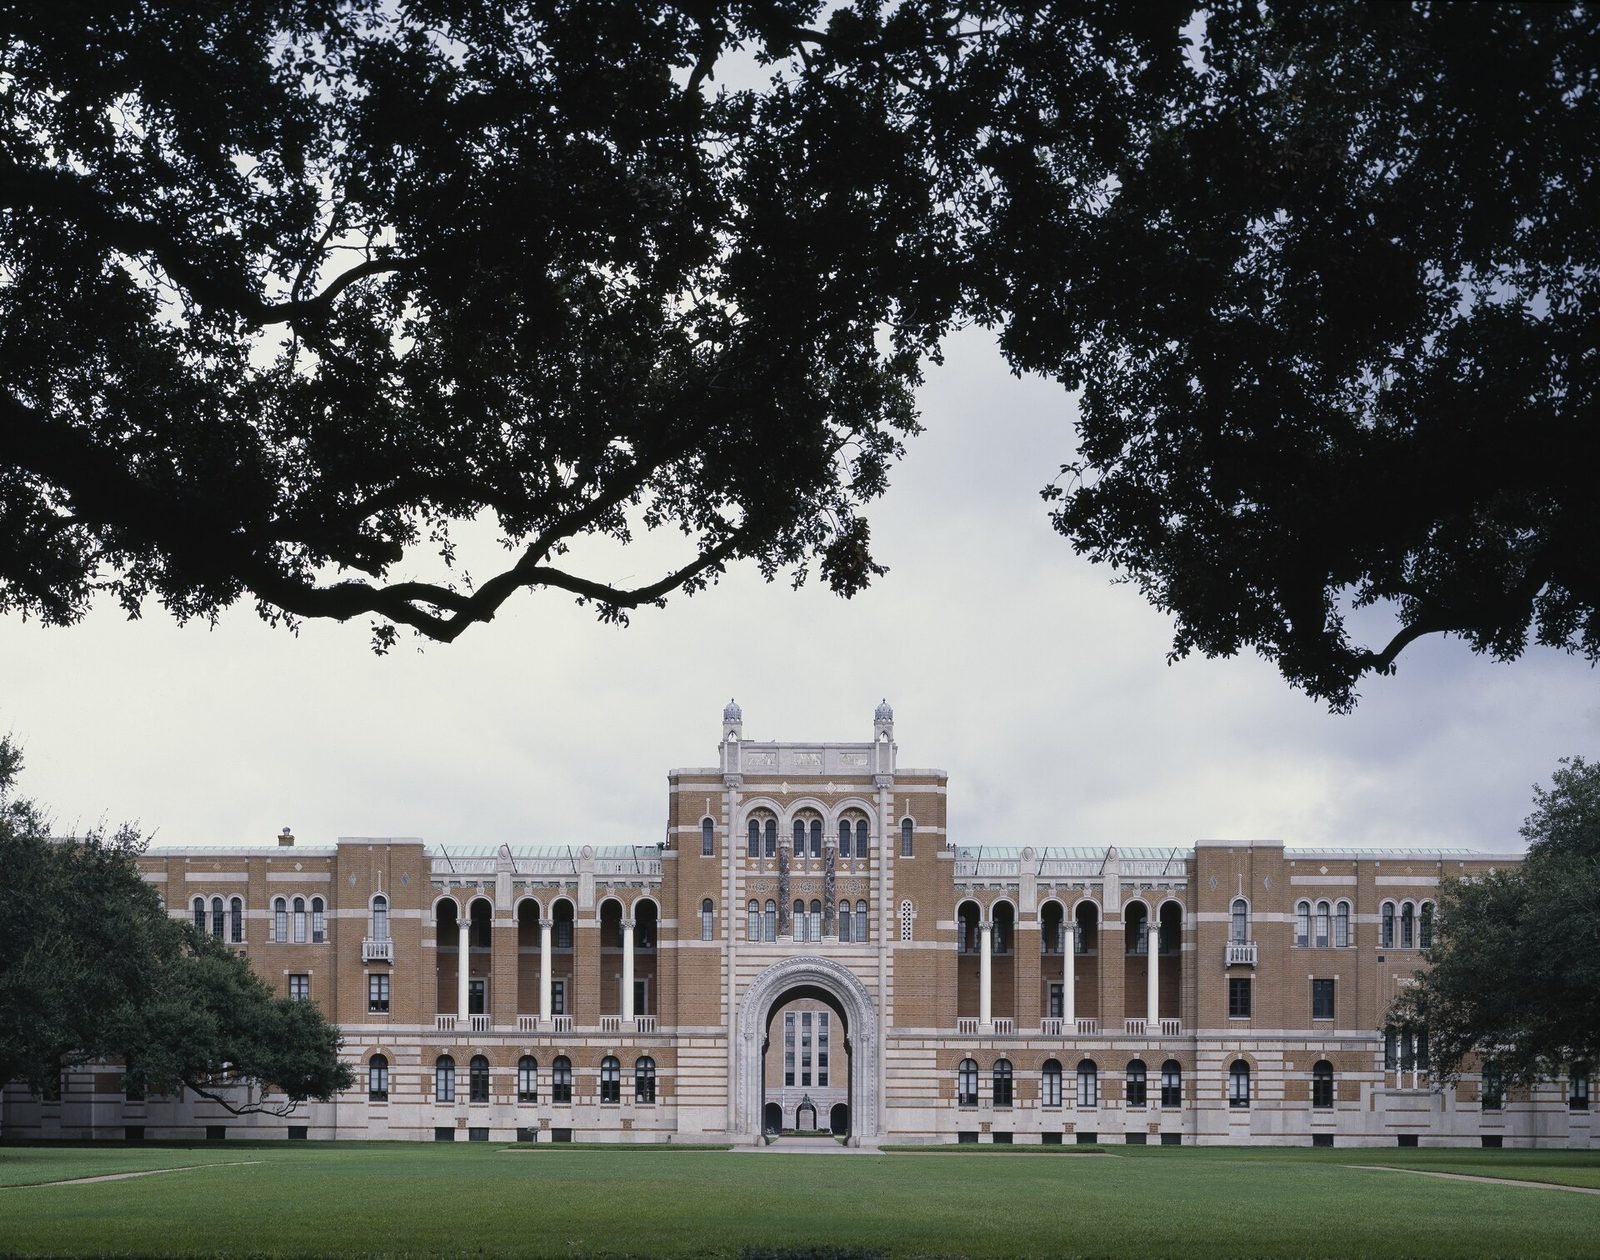
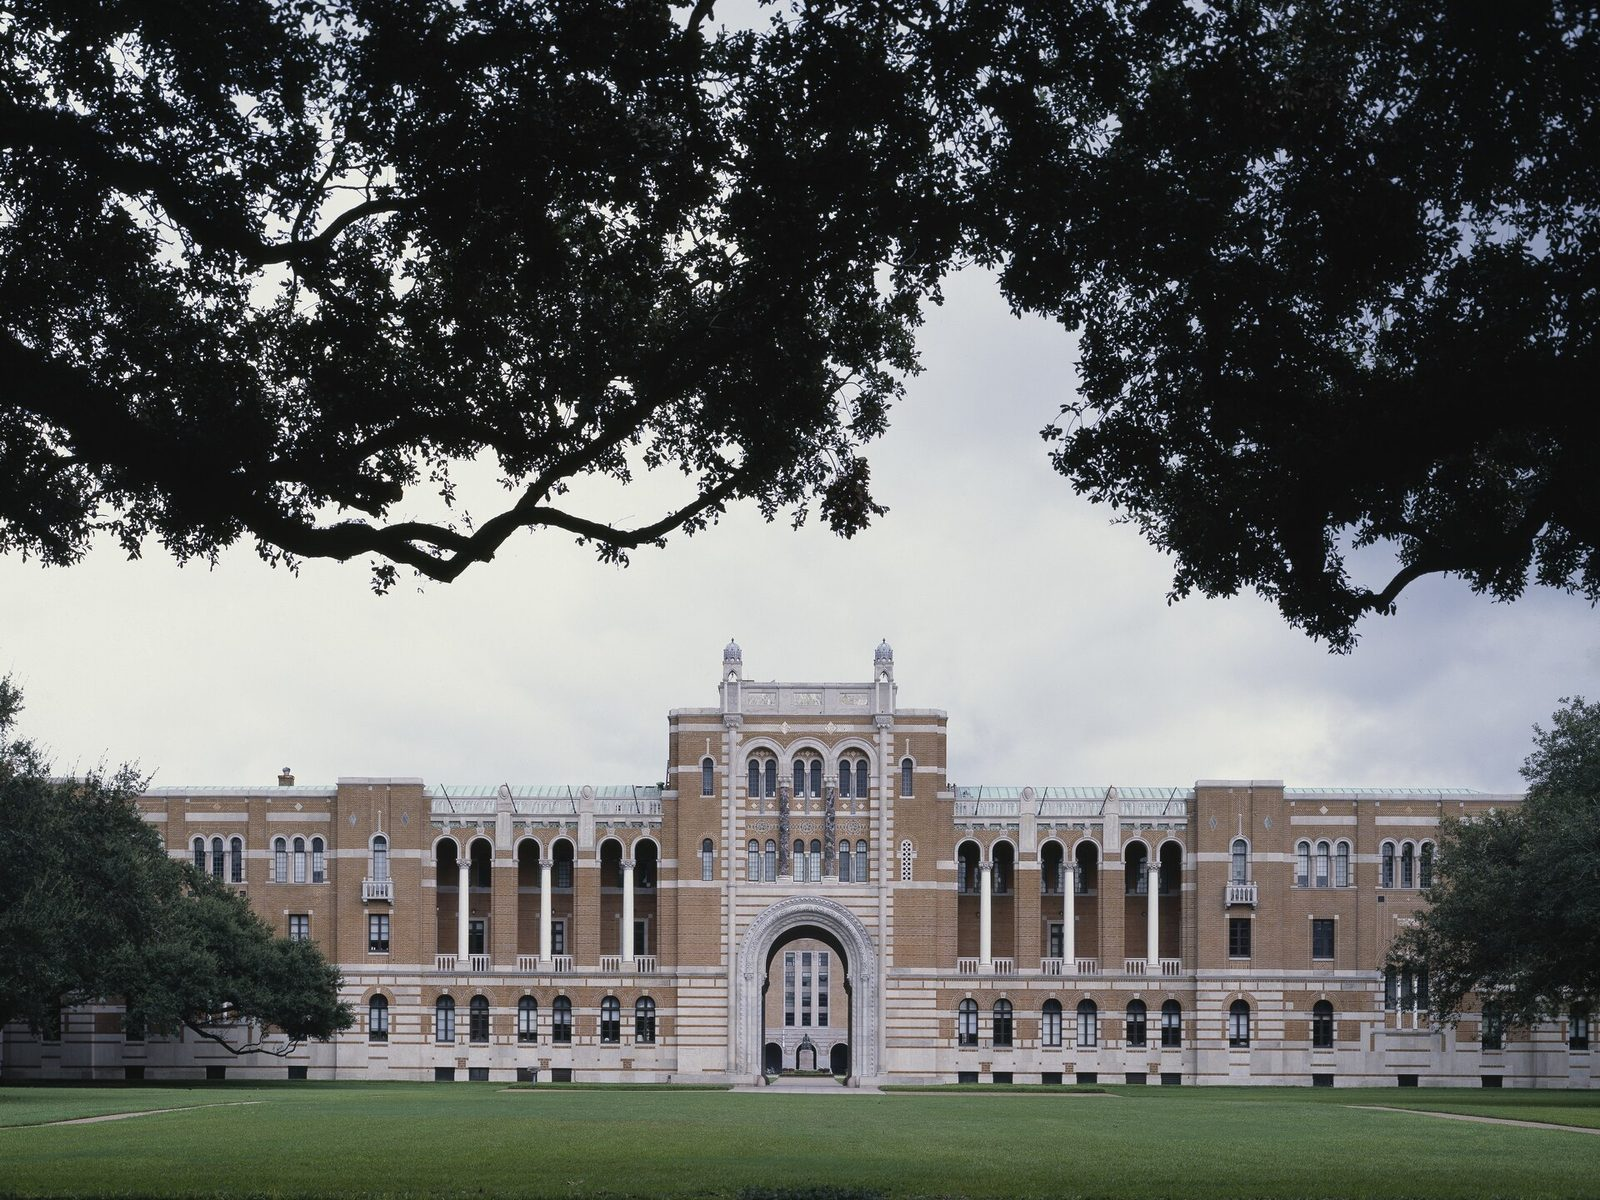
Hero photos cropped to 4:3 with ground lines aligned; wordmark stays on one line

diff --git a/2026_workshop/assets/css/style.css b/2026_workshop/assets/css/style.css
@@ -116,7 +116,7 @@ p, li, dd, figcaption, .lead { text-wrap: pretty; }
 /* photo hero: SKKU left, Rice right */
 .hero-photos { display: block; border-bottom: 0; background: #111; }
 .hero-photos::before { display: none; }
-.hero-photo { position: absolute; top: 0; bottom: 0; width: 50%; background-size: cover; background-position: center; }
+.hero-photo { position: absolute; top: 0; bottom: 0; width: 50%; background-size: cover; background-position: center 88%; }  /* both photos are 4:3 with the ground at 90 % of the height, so the ground lines meet */
 .hero-left { left: 0; }
 .hero-right { right: 0; }
 .hero-shade { position: absolute; inset: 0; background: linear-gradient(180deg, rgba(10, 10, 12, 0) 0%, rgba(10, 10, 12, 0) 38%, rgba(10, 10, 12, .35) 62%, rgba(10, 10, 12, .78) 100%); }
@@ -344,9 +344,10 @@ figcaption { color: var(--muted); font-size: .88rem; margin-top: 10px; }
 }
 
 /* |SKKU> (x) |Rice> wordmark: text on one baseline, drawn symbols aligned to the text */
-.wordmark { gap: .55em; flex-wrap: wrap; row-gap: 2px; align-items: baseline; }
+.wordmark { gap: .55em; flex-wrap: nowrap; row-gap: 2px; align-items: baseline; }
 .ket-logo { display: inline; white-space: nowrap; }
 .ket { font: 700 1em/1 var(--mono); letter-spacing: -.02em; }
 .ket .ra { display: inline-block; width: .36em; height: 1.05em; margin-left: .04em; vertical-align: -.2em; }
 .ot { display: inline-block; width: .78em; height: .78em; margin: 0 .34em; vertical-align: -.1em; color: var(--muted); }
 .wm-rest { font-weight: 600; color: var(--ink); white-space: nowrap; }
+@media (max-width: 420px) { .wordmark { flex-wrap: wrap; } }
